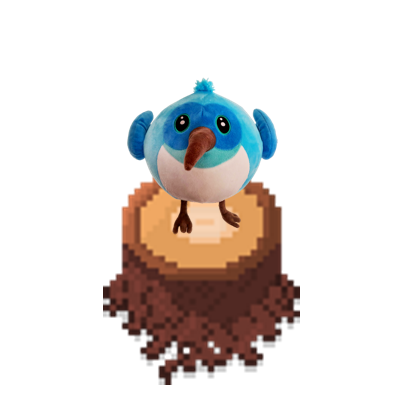
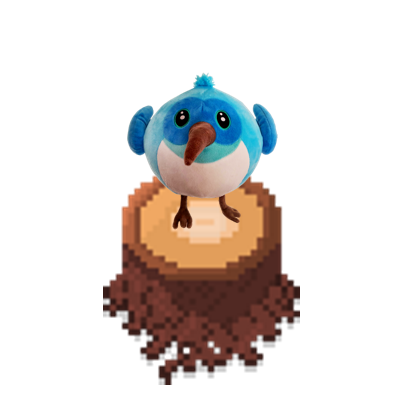
Add bird animation

Changed region(s): [[0.3, 0.1735, 0.72, 0.5783]]

diff --git a/lib/actors/tower.dart b/lib/actors/tower.dart
@@ -4,17 +4,34 @@ import 'package:birdTD/actors/actor.dart';
 import 'package:flame/sprite.dart';
 
 class Tower implements Actor {
-  Sprite _sprite = Sprite('bird1.png');
+  List<Sprite> _sprites = List(5);
   Rect _rect;
+  int _spriteIndex = 0;
+  int _spriteCount = 5;
+  int _spriteIncrementer = 1;
+  double _spriteTimer = 0.0;
 
-  Tower(this._rect);
+  Tower(this._rect) {
+    for (int i = 0; i < _spriteCount; i++) {
+      _sprites[i] = Sprite('bird$i.png');
+    }
+  }
 
   void render(Canvas canvas) {
-    _sprite.renderRect(canvas, _rect);
+    _sprites[_spriteIndex].renderRect(canvas, _rect);
   }
 
   void update(double t) {
-    // TODO: implement update
+    _spriteTimer += t;
+    if (_spriteTimer > 0.048) {
+      _spriteIndex += _spriteIncrementer;
+      if (_spriteIndex == 0) {
+        _spriteIncrementer = 1;
+      } else if (_spriteIndex == _spriteCount - 1) {
+        _spriteIncrementer = -1;
+      }
+      _spriteTimer = 0.0;
+    }
   }
 
   void onTapDown() {

diff --git a/lib/bird-td-game.dart b/lib/bird-td-game.dart
@@ -84,13 +84,9 @@ class BirdTDGame extends Game with TapDetector {
         }
       case View.playing:
         {
-          for (Tile tile in tiles) {
-            tile.render(canvas);
-          }
-          for (Actor actor in actors) {
-            actor.render(canvas);
-          }
-          enemies.forEach((Enemy enemy) => enemy.render(canvas));
+          tiles.forEach((tile) => tile.render(canvas));
+          actors.forEach((actor) => actor.render(canvas));
+          enemies.forEach((enemy) => enemy.render(canvas));
           break;
         }
       case View.lost:

diff --git a/lib/main.dart b/lib/main.dart
@@ -11,7 +11,11 @@ void main() async {
   await flameUtil.setPortraitUpOnly();
 
   Flame.images.loadAll([
+    'bird0.png',
     'bird1.png',
+    'bird2.png',
+    'bird3.png',
+    'bird4.png',
     'grass.png',
     'dirt.png',
     'lose-splash.png',
